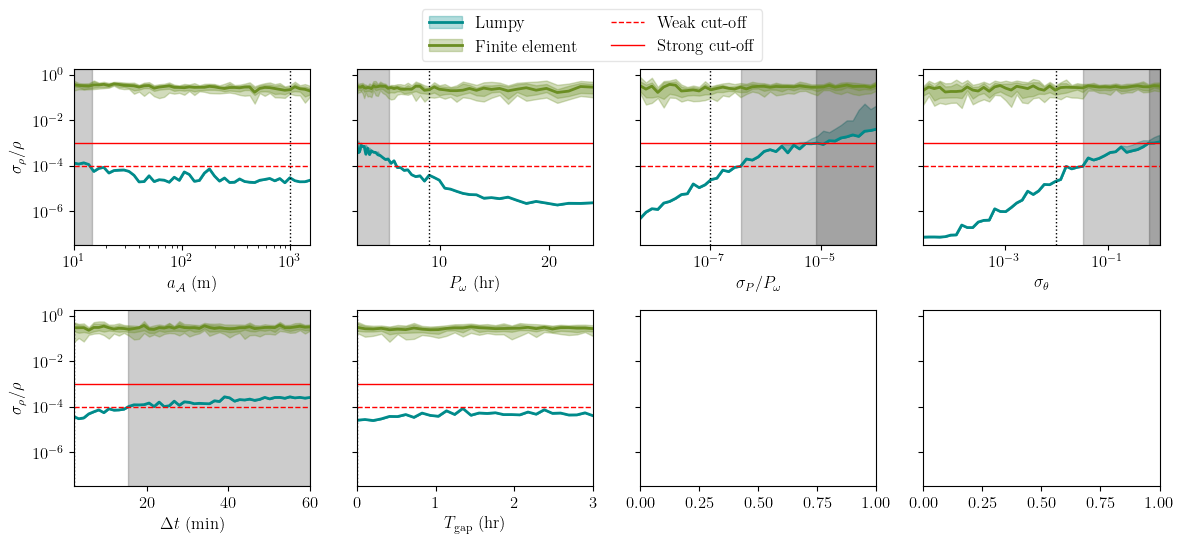
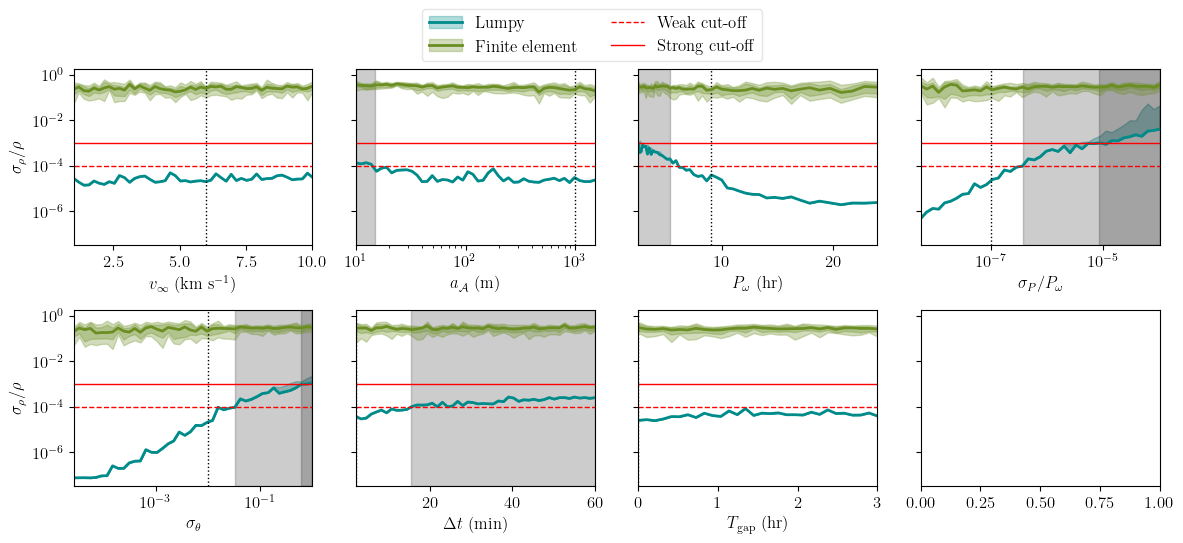
Finished vex threshold scan

diff --git a/code/thresholds/thresholds.py b/code/thresholds/thresholds.py
@@ -3,8 +3,9 @@ import numpy as np
 import matplotlib.pyplot as plt
 import matplotlib as mpl
 
-plt.style.use('jcap')
+PULL = True
 
+plt.style.use('jcap')
 mpl.rcParams["font.size"] = 12
 
 PLOT_ORDER = [
@@ -63,8 +64,6 @@ COLORS = {
     "lumpy": "darkcyan",
     "fe": "olivedrab",
 }
-EXCLUDE = []#"scan-vex"]
-PULL = False
 DIRECTORIES = ["lumpy", "fe"]
 
 THRESHOLDS = ((1e-4, "dashed", "weak"),(1e-3, "solid", "strong"),)
@@ -105,8 +104,6 @@ for directory in DIRECTORIES:
         if directory == "lumpy":
             for threshold, style, thresh_name in THRESHOLDS:
                 handles[thresh_name] = axs[i].axhline(y=threshold, c='r', linewidth=1, linestyle=style)
-                if name in EXCLUDE:
-                    continue
 
                 locs = np.where(use_uncs > threshold)[0]
                 if len(locs) == 0:

diff --git a/data/all-fig/compile.py b/data/all-fig/compile.py
@@ -11,7 +11,7 @@ mpl.rcParams['ytick.labelsize'] = AXIS_SIZE
 param_names = ["\\gamma_0", "K_{22}", "K_{20}", "\Re K_{33}", "\Im K_{33}", "\Re K_{32}", "\Im K_{32}", "\Re K_{31}", "\Im K_{31}", "K_{30}"]
 
 axis_names = {
-    "scan-perigee-sync": "$r_p$ (Earth radii)",
+    #"scan-perigee-sync": "$r_p$ (Earth radii)",
     "probe-s-theta": "$\sigma_\\theta$",
     "probe-s-rho": "$\sigma_P / P_\omega$",
     "scan-cadence": "$\Delta t$ (min)",

diff --git a/data/scan-vex-sync/readme.md b/data/scan-vex-sync/readme.md
@@ -17,3 +17,7 @@ I think I messed up the data handling, so I regenerated the data today.
 ## Aug 7
 
 Data was pulled today, so I started the threshold scan.
+
+## Aug 11
+
+Threshold scan done
